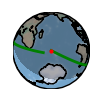
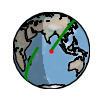
Testing refactored stuff

diff --git a/Pi/GUI.py b/Pi/GUI.py
@@ -328,7 +328,6 @@ depress1 = False
 depress2 = False
 leakhold = False
 repress = False
-ISS_TLE_Acquired = False
 stationmode = 0.00
 tdrs = ""
 EVA_picture_urls = []
@@ -1231,6 +1230,16 @@ class MainApp(App):
 
     def build(self):
         global startup, ScreenList, stopAnimation
+        global tles
+
+        tles = {
+            "ISS": None,
+            "TDRS 12": None,
+            "TDRS 11": None,
+            "TDRS 10": None,
+            "TDRS 7": None,
+            "TDRS 6": None,
+        }
 
         self.main_screen = MainScreen(name = 'main')
         self.mimic_screen = MimicScreen(name = 'mimic')
@@ -1301,10 +1310,10 @@ class MainApp(App):
 
         Clock.schedule_once(self.checkCrew, 30)
         Clock.schedule_once(self.checkBlogforEVA, 30)
-        Clock.schedule_once(self.getTLE, 15) #uncomment when internet works again
+        #Clock.schedule_once(self.getTLE, 15) #uncomment when internet works again
         Clock.schedule_once(self.TDRSupdate, 30) #uncomment when internet works again
 
-        Clock.schedule_interval(self.getTLE, 300)
+        #Clock.schedule_interval(self.getTLE, 300)
         Clock.schedule_interval(self.TDRSupdate, 600)
         Clock.schedule_interval(self.check_internet, 1)
 
@@ -1774,8 +1783,9 @@ class MainApp(App):
         self.orbit_screen.ids.ZOElabel.pos_hint = {"center_x": scaleLatLon(0, 77)['newLon'], "center_y": scaleLatLon(0, 77)['newLat']+0.1}
 
     def orbitUpdate(self, dt):
-        global overcountry, ISS_TLE, ISS_TLE_Line1, ISS_TLE_Line2, ISS_TLE_Acquired, sgant_elevation, sgant_elevation_old, sgant_xelevation, aos, oldtdrs, tdrs, logged
-        global TDRS12_TLE, TDRS6_TLE, TDRS7_TLE, TDRS10_TLE, TDRS11_TLE, tdrs1, tdrs2, tdrs_timestamp
+        global overcountry, sgant_elevation, sgant_elevation_old, sgant_xelevation, aos, oldtdrs, tdrs, logged
+        global tles
+
         def scaleLatLon(latitude, longitude):
             #converting lat lon to x, y for orbit map
             fromLatSpan = 180.0
@@ -1852,6 +1862,9 @@ class MainApp(App):
             sslon = sslon - 360.0 * nrot
 
             return sslat, sslon
+        
+        if tles["ISS"] is not None:
+            ISS_TLE.compute(datetime.utcnow())
 
         if ISS_TLE_Acquired:
             ISS_TLE.compute(datetime.utcnow())
@@ -2049,146 +2062,6 @@ class MainApp(App):
                 else:
                     self.orbit_screen.ids.ISSvisible.text = "Not Visible"
                 self.orbit_screen.ids.countdown.text = str("{:.0f}".format(math.floor(nextpasshours))) + ":" + str("{:.0f}".format(math.floor(nextpassmins))) + ":" + str("{:.0f}".format(math.floor(nextpassseconds))) #display time until next pass
-
-    def getTLE(self, *args):
-        global ISS_TLE, ISS_TLE_Line1, ISS_TLE_Line2, ISS_TLE_Acquired
-        #iss_tle_url =  'https://spaceflight.nasa.gov/realdata/sightings/SSapplications/Post/JavaSSOP/orbit/ISS/SVPOST.html' #the rev counter on this page is wrong
-        iss_tle_url =  'https://celestrak.org/NORAD/elements/stations.txt'
-        tdrs_tle_url =  'https://celestrak.org/NORAD/elements/tdrss.txt'
-
-        def on_success(req, data): #if TLE data is successfully received, it is processed here
-            global ISS_TLE, ISS_TLE_Line1, ISS_TLE_Line2, ISS_TLE_Acquired
-            soup = BeautifulSoup(data, "lxml")
-            body = iter(soup.get_text().split('\n'))
-            results = []
-            for line in body:
-                if "ISS (ZARYA)" in line:
-                    results.append(line)
-                    results.append(next(body))
-                    results.append(next(body))
-                    break
-            results = [i.strip() for i in results]
-
-            if len(results) > 0:
-                ISS_TLE_Line1 = results[1]
-                ISS_TLE_Line2 = results[2]
-                ISS_TLE = ephem.readtle("ISS (ZARYA)", str(ISS_TLE_Line1), str(ISS_TLE_Line2))
-                ISS_TLE_Acquired = True
-                logWrite("ISS TLE Acquired!")
-            else:
-                logWrite("ISS TLE Not Acquired")
-                ISS_TLE_Acquired = False
-
-        def on_redirect(req, result):
-            logWrite("Warning - Get ISS TLE failure (redirect)")
-            logWrite(result)
-
-        def on_failure(req, result):
-            logWrite("Warning - Get ISS TLE failure (url failure)")
-            logWrite(result)
-
-        def on_error(req, result):
-            logWrite("Warning - Get ISS TLE failure (url error)")
-            logWrite(result)
-
-        def on_success2(req2, data2): #if TLE data is successfully received, it is processed here
-            #retrieve the TLEs for every TDRS that ISS talks too
-            global TDRS12_TLE,TDRS6_TLE,TDRS11_TLE,TDRS10_TLE,TDRS7_TLE
-            soup = BeautifulSoup(data2, "lxml")
-            body = iter(soup.get_text().split('\n'))
-            results = ['','','']
-            #TDRS 12 TLE
-            for line in body:
-                if "TDRS 12" in line:
-                    results[0] = line
-                    results[1] = next(body)
-                    results[2] = next(body)
-                    break
-
-            if len(results[1]) > 0:
-                TDRS12_TLE = ephem.readtle("TDRS 12", str(results[1]), str(results[2]))
-                logWrite("TDRS 12 TLE Success!")
-            else:
-                logWrite("TDRS 12 TLE not acquired")
-
-            results = ['','','']
-            body = iter(soup.get_text().split('\n'))
-            #TDRS 6 TLE
-            for line in body:
-                if "TDRS 6" in line:
-                    results[0] = line
-                    results[1] = next(body)
-                    results[2] = next(body)
-                    break
-
-            if len(results[1]) > 0:
-                TDRS6_TLE = ephem.readtle("TDRS 6", str(results[1]), str(results[2]))
-                logWrite("TDRS 6 TLE Success!")
-            else:
-                logWrite("TDRS 6 TLE not acquired")
-
-            results = ['','','']
-            body = iter(soup.get_text().split('\n'))
-            #TDRS 11 TLE
-            for line in body:
-                if "TDRS 11" in line:
-                    results[0] = line
-                    results[1] = next(body)
-                    results[2] = next(body)
-                    break
-
-            if len(results[1]) > 0:
-                TDRS11_TLE = ephem.readtle("TDRS 11", str(results[1]), str(results[2]))
-                logWrite("TDRS 11 TLE Success!")
-            else:
-                logWrite("TDRS 11 TLE not acquired")
-
-            results = ['','','']
-            body = iter(soup.get_text().split('\n'))
-            #TDRS 10 TLE
-            for line in body:
-                if "TDRS 10" in line:
-                    results[0] = line
-                    results[1] = next(body)
-                    results[2] = next(body)
-                    break
-
-            if len(results[1]) > 0:
-                TDRS10_TLE = ephem.readtle("TDRS 10", str(results[1]), str(results[2]))
-                logWrite("TDRS 10 TLE Success!")
-            else:
-                logWrite("TDRS 10 TLE not acquired")
-
-            results = ['','','']
-            body = iter(soup.get_text().split('\n'))
-            #TDRS 7 TLE
-            for line in body:
-                if "TDRS 7" in line:
-                    results[0] = line
-                    results[1] = next(body)
-                    results[2] = next(body)
-                    break
-
-            if len(results[1]) > 0:
-                TDRS7_TLE = ephem.readtle("TDRS 7", str(results[1]), str(results[2]))
-                logWrite("TDRS 7 TLE Success!")
-            else:
-                logWrite("TDRS 7 TLE not acquired")
-
-        def on_redirect2(req2, result):
-            logWrite("Warning - Get TDRS TLE failure (redirect)")
-            logWrite(result)
-
-        def on_failure2(req2, result):
-            logWrite("Warning - Get TDRS TLE failure (url failure)")
-            logWrite(result)
-
-        def on_error2(req2, result):
-            logWrite("Warning - Get TDRS TLE failure (url error)")
-            logWrite(result)
-
-        req = UrlRequest(iss_tle_url, on_success, on_redirect, on_failure, on_error, timeout=1)
-        req2 = UrlRequest(tdrs_tle_url, on_success2, on_redirect2, on_failure2, on_error2, timeout=1)
 
     def checkCrew(self, dt):
         iss_crew_url = 'https://www.howmanypeopleareinspacerightnow.com/peopleinspace.json'

diff --git a/Pi/tle_fetcher.py b/Pi/tle_fetcher.py
@@ -1,0 +1,65 @@
+import aiohttp
+import asyncio
+
+# Dictionary of satellite names and their corresponding TLE URLs
+TLE_URLS = {
+    "ISS": "https://www.celestrak.com/NORAD/elements/stations.txt",
+    "TDRS 12": "https://www.celestrak.com/NORAD/elements/tdrss.txt",
+    "TDRS 11": "https://www.celestrak.com/NORAD/elements/tdrss.txt",
+    "TDRS 10": "https://www.celestrak.com/NORAD/elements/tdrss.txt",
+    "TDRS 7": "https://www.celestrak.com/NORAD/elements/tdrss.txt",
+    "TDRS 6": "https://www.celestrak.com/NORAD/elements/tdrss.txt",
+}
+
+
+async def fetch_tle(url):
+    """
+    Asynchronously fetches the TLE from the given URL using aiohttp.
+    Args:
+        url (str): The URL of the TLE to fetch.
+    Returns:
+        str: The TLE as a string.
+    """
+    async with aiohttp.ClientSession() as session:
+        async with session.get(url) as response:
+            tle = await response.text()
+            return tle
+
+async def get_tles():
+    """
+    Asynchronously fetches the TLEs for all satellites in the TLE_URLS dictionary.
+
+    Returns:
+        dict: A dictionary containing the TLEs for all satellites, with satellite names as keys and TLE strings as values.
+    """
+    tles = {}
+    tasks = []
+    
+    # Create a list of tasks to fetch the TLEs for all satellites in TLE_URLS
+    for name, url in TLE_URLS.items():
+        task = asyncio.create_task(fetch_tle(url))
+        tasks.append(task)
+    
+    # Execute all tasks in parallel and wait for them to complete
+    results = await asyncio.gather(*tasks)
+    
+    # Associate each TLE with its corresponding satellite name in a dictionary
+    for i, name in enumerate(TLE_URLS.keys()):
+        #snag ISS TLE from results
+        if name == "ISS":
+            lines = results[i].strip().split("\n")
+            for j in range(len(lines)):
+                if name in lines[j]:
+                    tles[name] = "\n".join(lines[j:j+3])
+                    break
+        #snag relevant TDRS TLEs from results
+        else:
+            lines = results[i].strip().split("\n")
+            for j in range(len(lines)):
+                if name in lines[j]:
+                    tles[name] = "\n".join(lines[j:j+3])
+                    break
+
+    #return all ISS and TDRS TLEs
+    return tles
+

diff --git a/Pi/kivyTLE.py b/Pi/kivyTLE.py
@@ -1,0 +1,39 @@
+from kivy.app import App
+from kivy.clock import Clock
+from tle_fetcher import get_tles
+import asyncio
+
+class TLEFetcherApp(App):
+    global tles
+    tles = {
+        "ISS": None,
+        "TDRS 12": None,
+        "TDRS 11": None,
+        "TDRS 10": None,
+        "TDRS 7": None,
+        "TDRS 6": None,
+    }
+
+    def build(self):
+        # Schedule the get_tles() function to be called every hour
+        Clock.schedule_interval(self.fetch_tles, 10)
+        Clock.schedule_interval(self.orbitUpdate, 20)
+        return
+
+    def fetch_tles(self, dt):
+        global tles
+        # Call the get_tles() function to fetch the TLEs
+        tles = asyncio.run(get_tles())
+        # Do something with the tles dictionary
+        # For example, print the TLEs for the ISS and TDRS 12 satellites
+
+    def orbitUpdate(self, dt):
+        global tles
+        if tles["ISS"] is not None:
+            print(tles["ISS"])
+        else:
+            print("None")
+
+if __name__ == "__main__":
+    TLEFetcherApp().run()
+

diff --git a/Pi/iss_tle.py b/Pi/iss_tle.py
@@ -1,0 +1,16 @@
+import aiohttp
+
+ISS_TLE_URL = "https://www.celestrak.com/NORAD/elements/stations.txt"
+
+
+async def fetch_iss_tle():
+    async with aiohttp.ClientSession() as session:
+        async with session.get(ISS_TLE_URL) as response:
+            tle = await response.text()
+            return tle
+
+
+async def get_iss_tle():
+    tle = await fetch_iss_tle()
+    return tle.strip().split("\n")[:3]
+

diff --git a/Pi/tdrs.py b/Pi/tdrs.py
@@ -1,0 +1,13 @@
+from os import environ
+import sqlite3
+# or: from autobahn.asyncio.wamp import ApplicationSession
+
+conn = sqlite3.connect('/dev/shm/tdrs.db')
+conn.isolation_level = None
+c = conn.cursor()
+
+
+
+c.execute("UPDATE tdrs SET TDRS1 = %s" % str("TDRS-10"));
+c.execute("UPDATE tdrs SET TDRS2 = %s" % str("TDRS-7"));
+c.execute("UPDATE tdrs SET Timestamp = %s" % str(5));

diff --git a/Pi/TLEtest.py b/Pi/TLEtest.py
@@ -1,0 +1,10 @@
+import asyncio
+import tle_fetcher
+
+async def main():
+    tles = await tle_fetcher.get_tles()
+    for name, tle in tles.items():
+        print(tle)
+
+asyncio.run(main())
+

diff --git a/Pi/pytest.py b/Pi/pytest.py
@@ -1,0 +1,9 @@
+import asyncio
+import iss_tle
+
+async def main():
+    tle = await iss_tle.get_iss_tle()
+    print(tle)
+
+asyncio.run(main())
+
